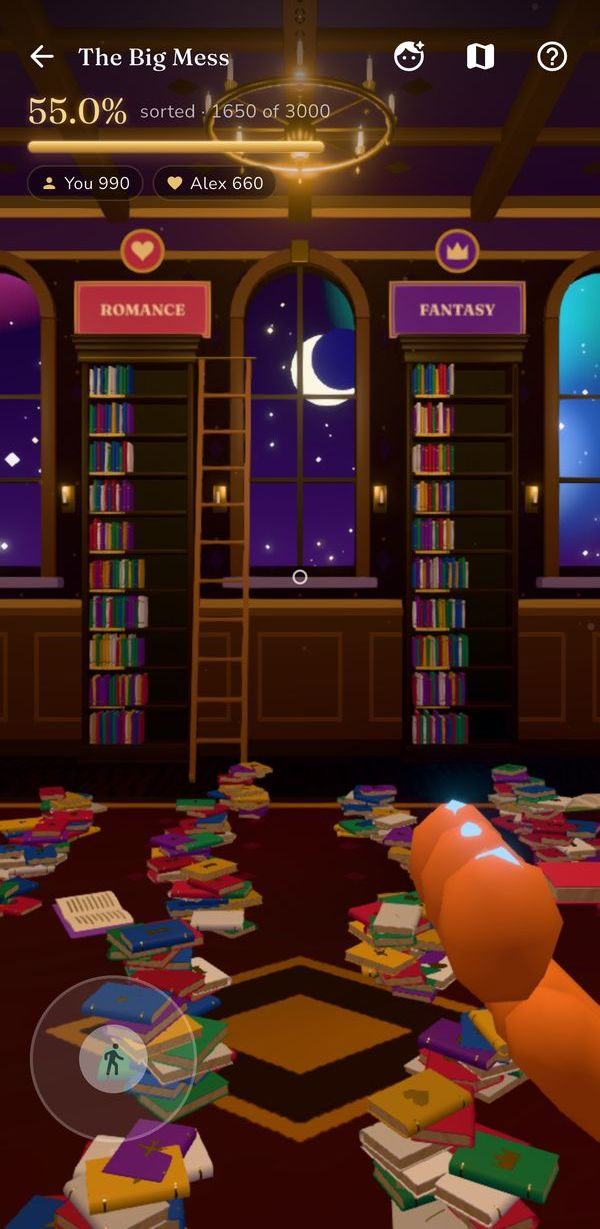
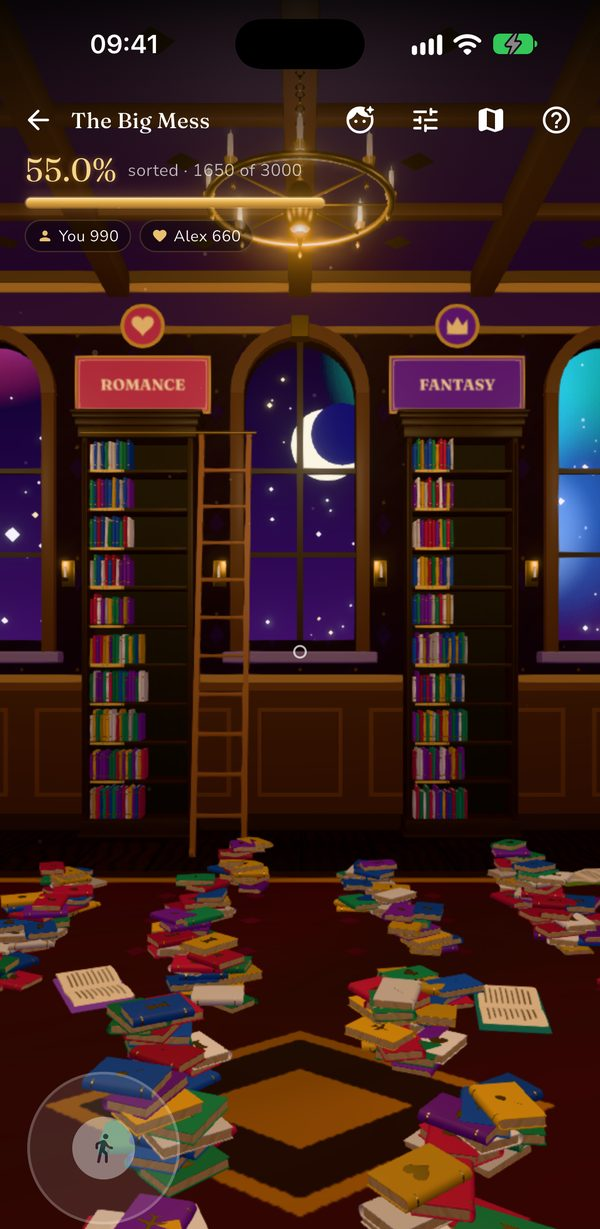
The library, freshly drawn in 3D: the shelves under the moon, and your partner as a fox with a book

diff --git a/index.html b/index.html
@@ -53,7 +53,7 @@
     </div>
     <div class="phones" aria-label="Screens from the app">
       <figure class="phone p-left"><img src="img/lands/cherry_hills.jpg?v=20261025" alt="Your land: Cherry Blossom Hills, with your house, the Store, the Arcade and the Bonding Hall" width="600" height="1229"></figure>
-      <figure class="phone p-mid"><img src="img/library.jpg?v=20261025" alt="The Big Mess: a magical 3D library with a crescent moon and a nebula through the windows" width="600" height="1229"></figure>
+      <figure class="phone p-mid"><img src="img/library.jpg?v=20261025b" alt="The Big Mess: a magical 3D library with a crescent moon and a nebula through the windows" width="600" height="1229"></figure>
       <figure class="phone p-right"><img src="img/walk.jpg?v=20261025" alt="Walk to each other: both of you walking towards each other on a map between London and Sydney" width="600" height="1229"></figure>
     </div>
   </section>
@@ -111,8 +111,8 @@
           <img data-shot="pet" src="img/pet_room.jpg?v=20261025" alt="">
           <img data-shot="petshow" src="img/pet_show.jpg?v=20261025" alt="">
           <img data-shot="observatory" src="img/observatory.jpg?v=20261025" alt="">
-          <img data-shot="library" src="img/library.jpg?v=20261025" alt="">
-          <img data-shot="together" src="img/together.jpg?v=20261025" alt="">
+          <img data-shot="library" src="img/library.jpg?v=20261025b" alt="">
+          <img data-shot="together" src="img/together.jpg?v=20261025b" alt="">
           <img data-shot="walk" src="img/walk.jpg?v=20261025" alt="">
         </figure>
       </div>
@@ -205,13 +205,13 @@
           <span class="tag">The Big Mess</span>
           <h3>Three thousand books. One very messy library.</h3>
           <p>Step inside a magical 3D library and put every book back on its shelf, in order. Out of the windows, a whole universe drifts by: moons, nebulae, a ringed planet and shooting stars.</p>
-          <img class="inline" src="img/library.jpg?v=20261025" alt="The Big Mess: bookcases, chandeliers and a moon through the window" loading="lazy" width="600" height="1229">
+          <img class="inline" src="img/library.jpg?v=20261025b" alt="The Big Mess: Romance and Fantasy shelves, a ladder, a crescent moon through the window and books everywhere" loading="lazy" width="600" height="1229">
         </article>
         <article class="story" data-shot="together">
           <span class="tag">Together</span>
           <h3>See each other, even when you're apart</h3>
           <p>When you're both in the library you walk round it together, each as the character you chose. In the house you see who was there last. On the land you can send a mood with a single tap.</p>
-          <img class="inline" src="img/together.jpg?v=20261025" alt="Your partner in the library as a fox, carrying a book, with their name above" loading="lazy" width="600" height="1229">
+          <img class="inline" src="img/together.jpg?v=20261025b" alt="Your partner in the library as a fox, facing you with a book, their name and what they are reading above" loading="lazy" width="600" height="1229">
         </article>
         <article class="story" data-shot="walk">
           <span class="tag">Walk to each other</span>
